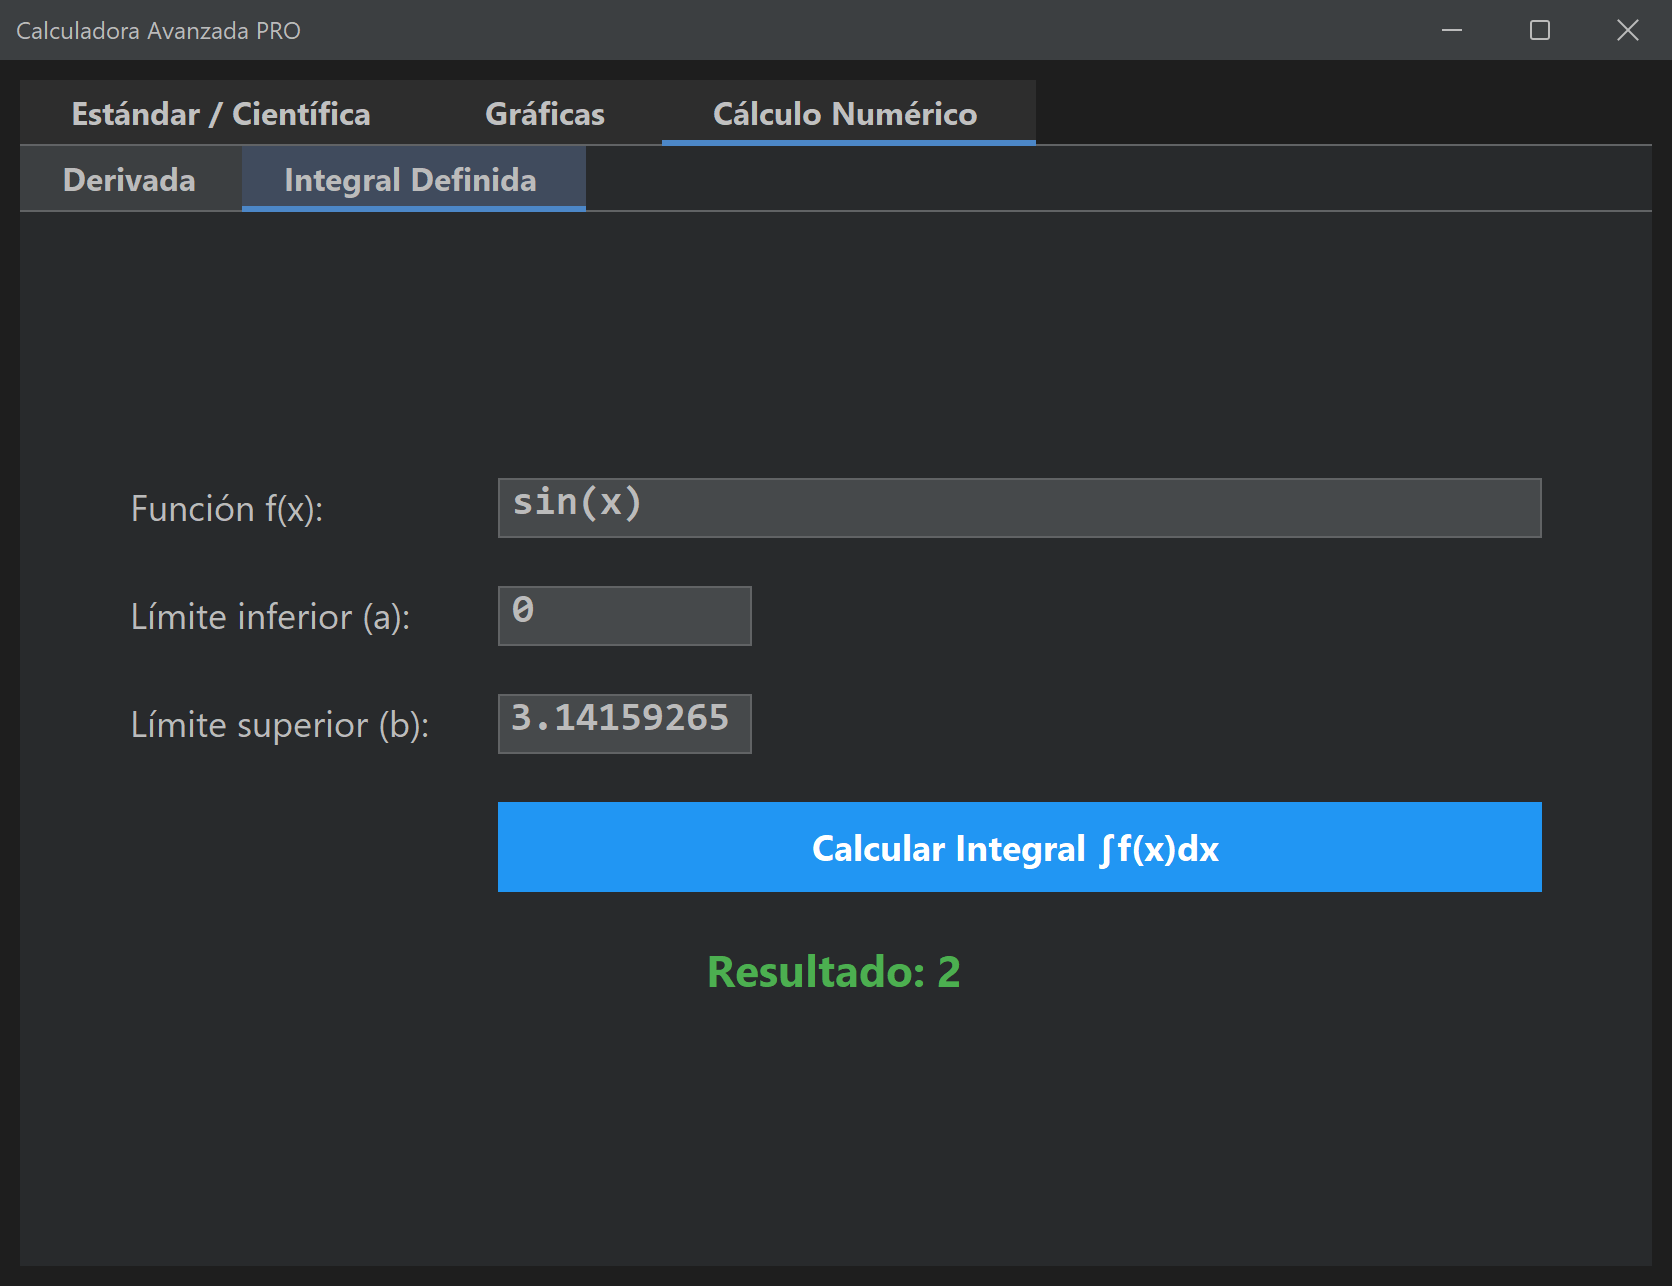
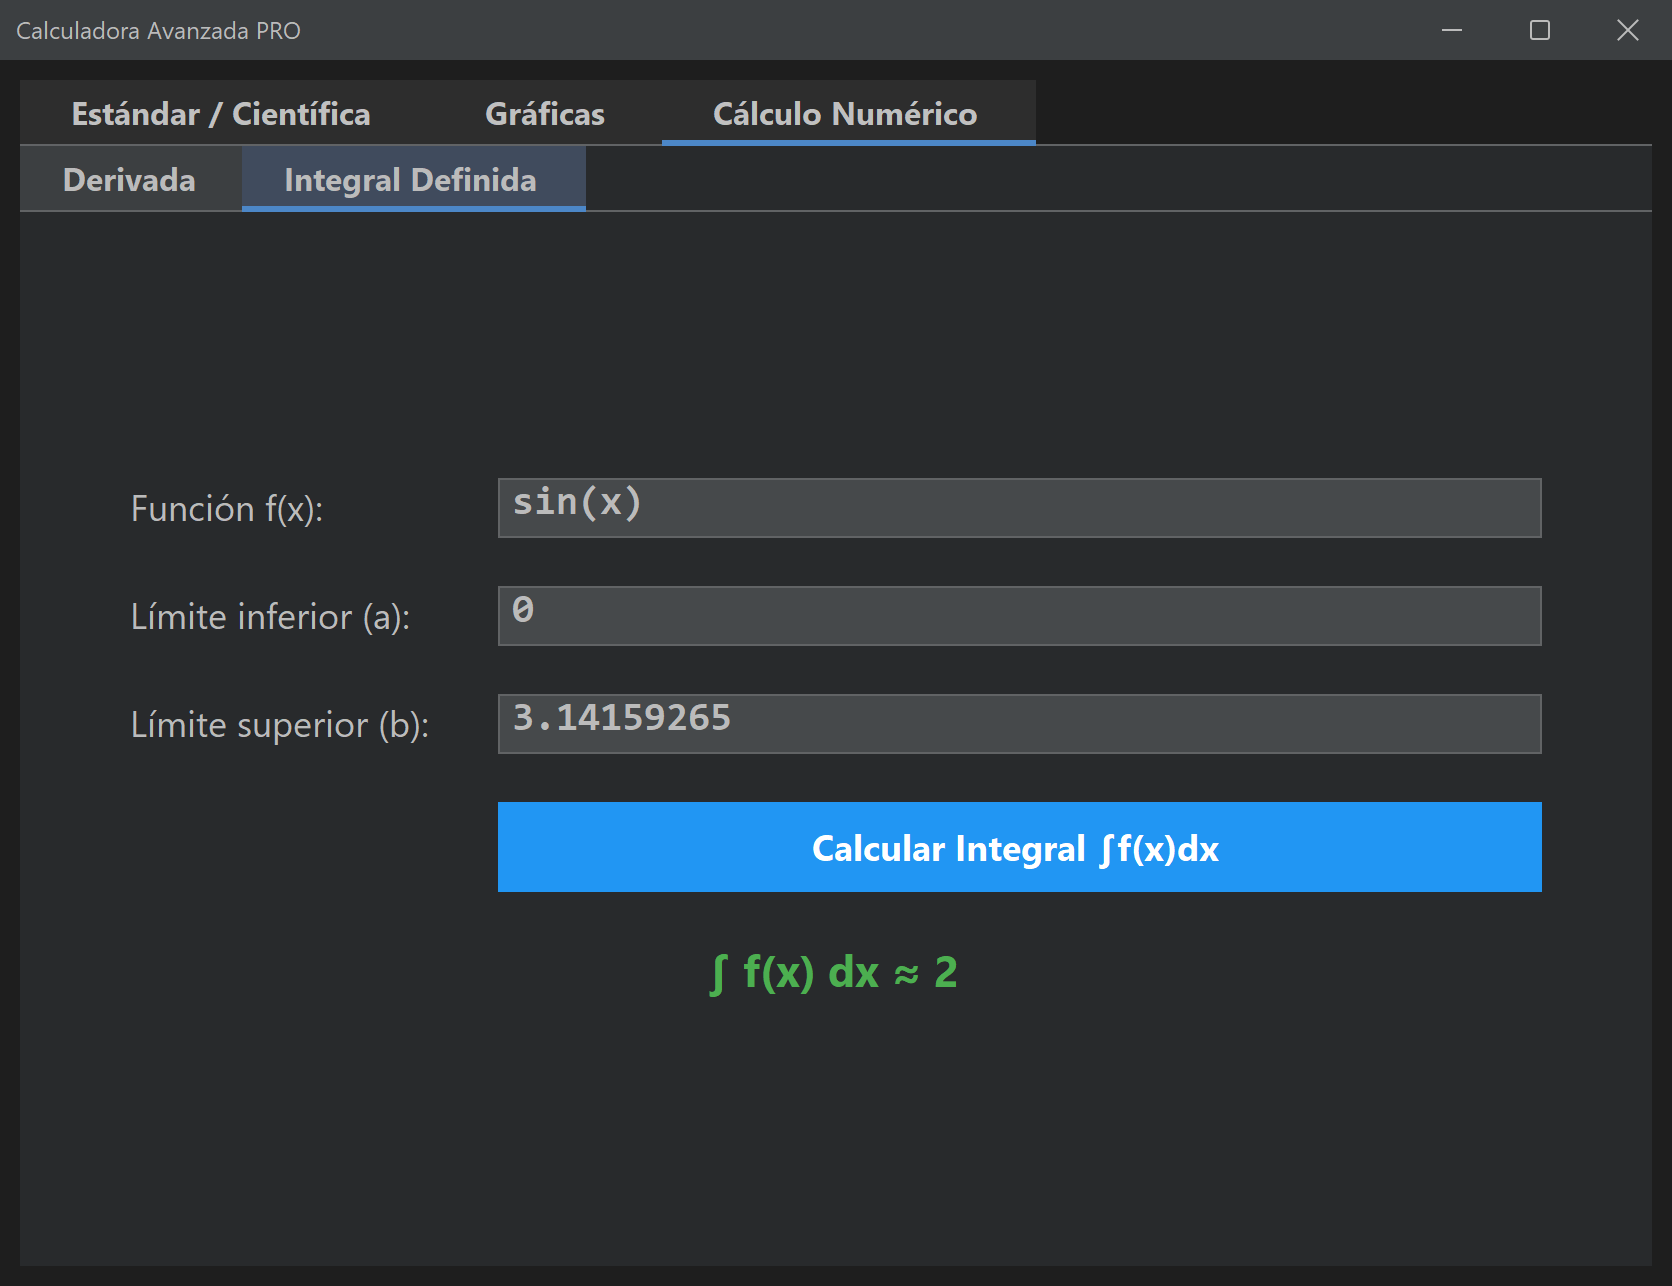
README: nuevas teclas, atajos de teclado y capturas actualizadas

Changed region(s): [[0.3421, 0.4355, 0.933, 0.591], [0.4043, 0.7465, 0.5598, 0.7776]]

diff --git a/README.md b/README.md
@@ -29,10 +29,12 @@ El proyecto sigue una separación tipo **MVC** (lógica matemática por un lado,
 
 | Módulo | Qué hace |
 |---|---|
-| **Estándar / Científica** | Operaciones `+ - * / ^`, paréntesis, `sin`, `cos`, `tan`, `sqrt`, `log`, `ln`, constantes `pi` y `e`. Resultados limpios (`0.1+0.2 = 0.3`) y notación científica para números muy grandes o pequeños. |
+| **Estándar / Científica** | Operaciones `+ − × ÷`, potencias, `x²`, `x⁻¹`, `√`, `n!`, `%`, `±`, `sin`, `cos`, `tan`, `log`, `ln`, constantes `π` y `e`, y la tecla `ANS` con el último resultado. Modo **RAD / DEG** para los ángulos. Resultados limpios (`0.1+0.2 = 0.3`, `sin(π) = 0`) y notación científica para números muy grandes o pequeños. |
+| **Teclado físico** | Puedes escribir la operación completa con el teclado; `Enter` calcula, `Esc` borra y `Ctrl+C` / `Ctrl+V` copian y pegan. |
 | **Gráficas** | Dibuja cualquier `f(x)` entre un `X mín` y un `X máx` con 800 puntos de muestreo. Deja huecos donde la función no existe y corta la línea en las asíntotas (`1/x`, `tan(x)`). |
 | **Derivada** | Derivada numérica en un punto mediante **diferencias finitas centrales** con paso adaptado a la magnitud de `x`. |
 | **Integral definida** | Integral en `[a, b]` mediante la **regla de Simpson 1/3** (1000 subintervalos). |
+| **Errores claros** | Los errores se muestran en rojo dentro de la ventana, indicando qué campo revisar, sin ventanas emergentes. |
 | **Tema oscuro** | Interfaz moderna con **FlatLaf** (Dark). |
 
 ## 📸 Capturas
@@ -110,16 +112,35 @@ java -jar target/calculadora-avanzada-1.0-SNAPSHOT-jar-with-dependencies.jar
 | Escribe | Significa |
 |---|---|
 | `2^3` | Potencia (2³) |
-| `sqrt(x)` | Raíz cuadrada |
-| `sin(x)`, `cos(x)`, `tan(x)` | Trigonométricas (en **radianes**) |
+| `sqrt(x)` o `√(x)` | Raíz cuadrada |
+| `5!` | Factorial (120) |
+| `50%`, `200*10%` | Porcentaje (0.5 y 20) |
+| `ANS` | Último resultado calculado |
+| `sin(x)`, `cos(x)`, `tan(x)` | Trigonométricas (en **radianes**, o en grados con el botón **DEG**) |
+| `asin(x)`, `acos(x)`, `atan(x)` | Trigonométricas inversas |
 | `log(x)` | Logaritmo en **base 10** |
 | `ln(x)` | Logaritmo **natural** |
 | `log2(x)` | Logaritmo en base 2 |
 | `abs(x)`, `exp(x)`, `cbrt(x)` | Valor absoluto, eˣ, raíz cúbica |
-| `pi`, `e` | Constantes π y e |
+| `pi` o `π`, `e` | Constantes π y e |
 | `2pi`, `3(x+1)` | Multiplicación implícita |
 
 > 💡 En los modos **Gráficas** y **Cálculo Numérico** la variable debe llamarse `x`. Los límites y el punto de evaluación también aceptan expresiones, por ejemplo `pi/2` o `-2*pi`.
+
+## ⌨ Atajos de teclado
+
+| Tecla | Acción |
+|---|---|
+| `0`–`9`, `.` o `,` | Escribir números |
+| `+` `-` `*` `/` `^` `(` `)` `%` `!` | Operadores |
+| Letras (`sin`, `sqrt`, `pi`, `ans`…) | Escribir funciones y constantes |
+| `Enter` o `=` | Calcular |
+| `Retroceso` | Borrar el último carácter (o la función completa, como `sin(`) |
+| `Esc` o `Supr` | Borrar todo |
+| `Ctrl+C` / `Ctrl+V` | Copiar el resultado / pegar una expresión |
+| `Enter` en Gráficas y Cálculo Numérico | Trazar o calcular sin usar el ratón |
+
+> Si te falta un paréntesis de cierre, la calculadora lo agrega por ti: `sin(30` se calcula como `sin(30)`.
 
 ---
 
